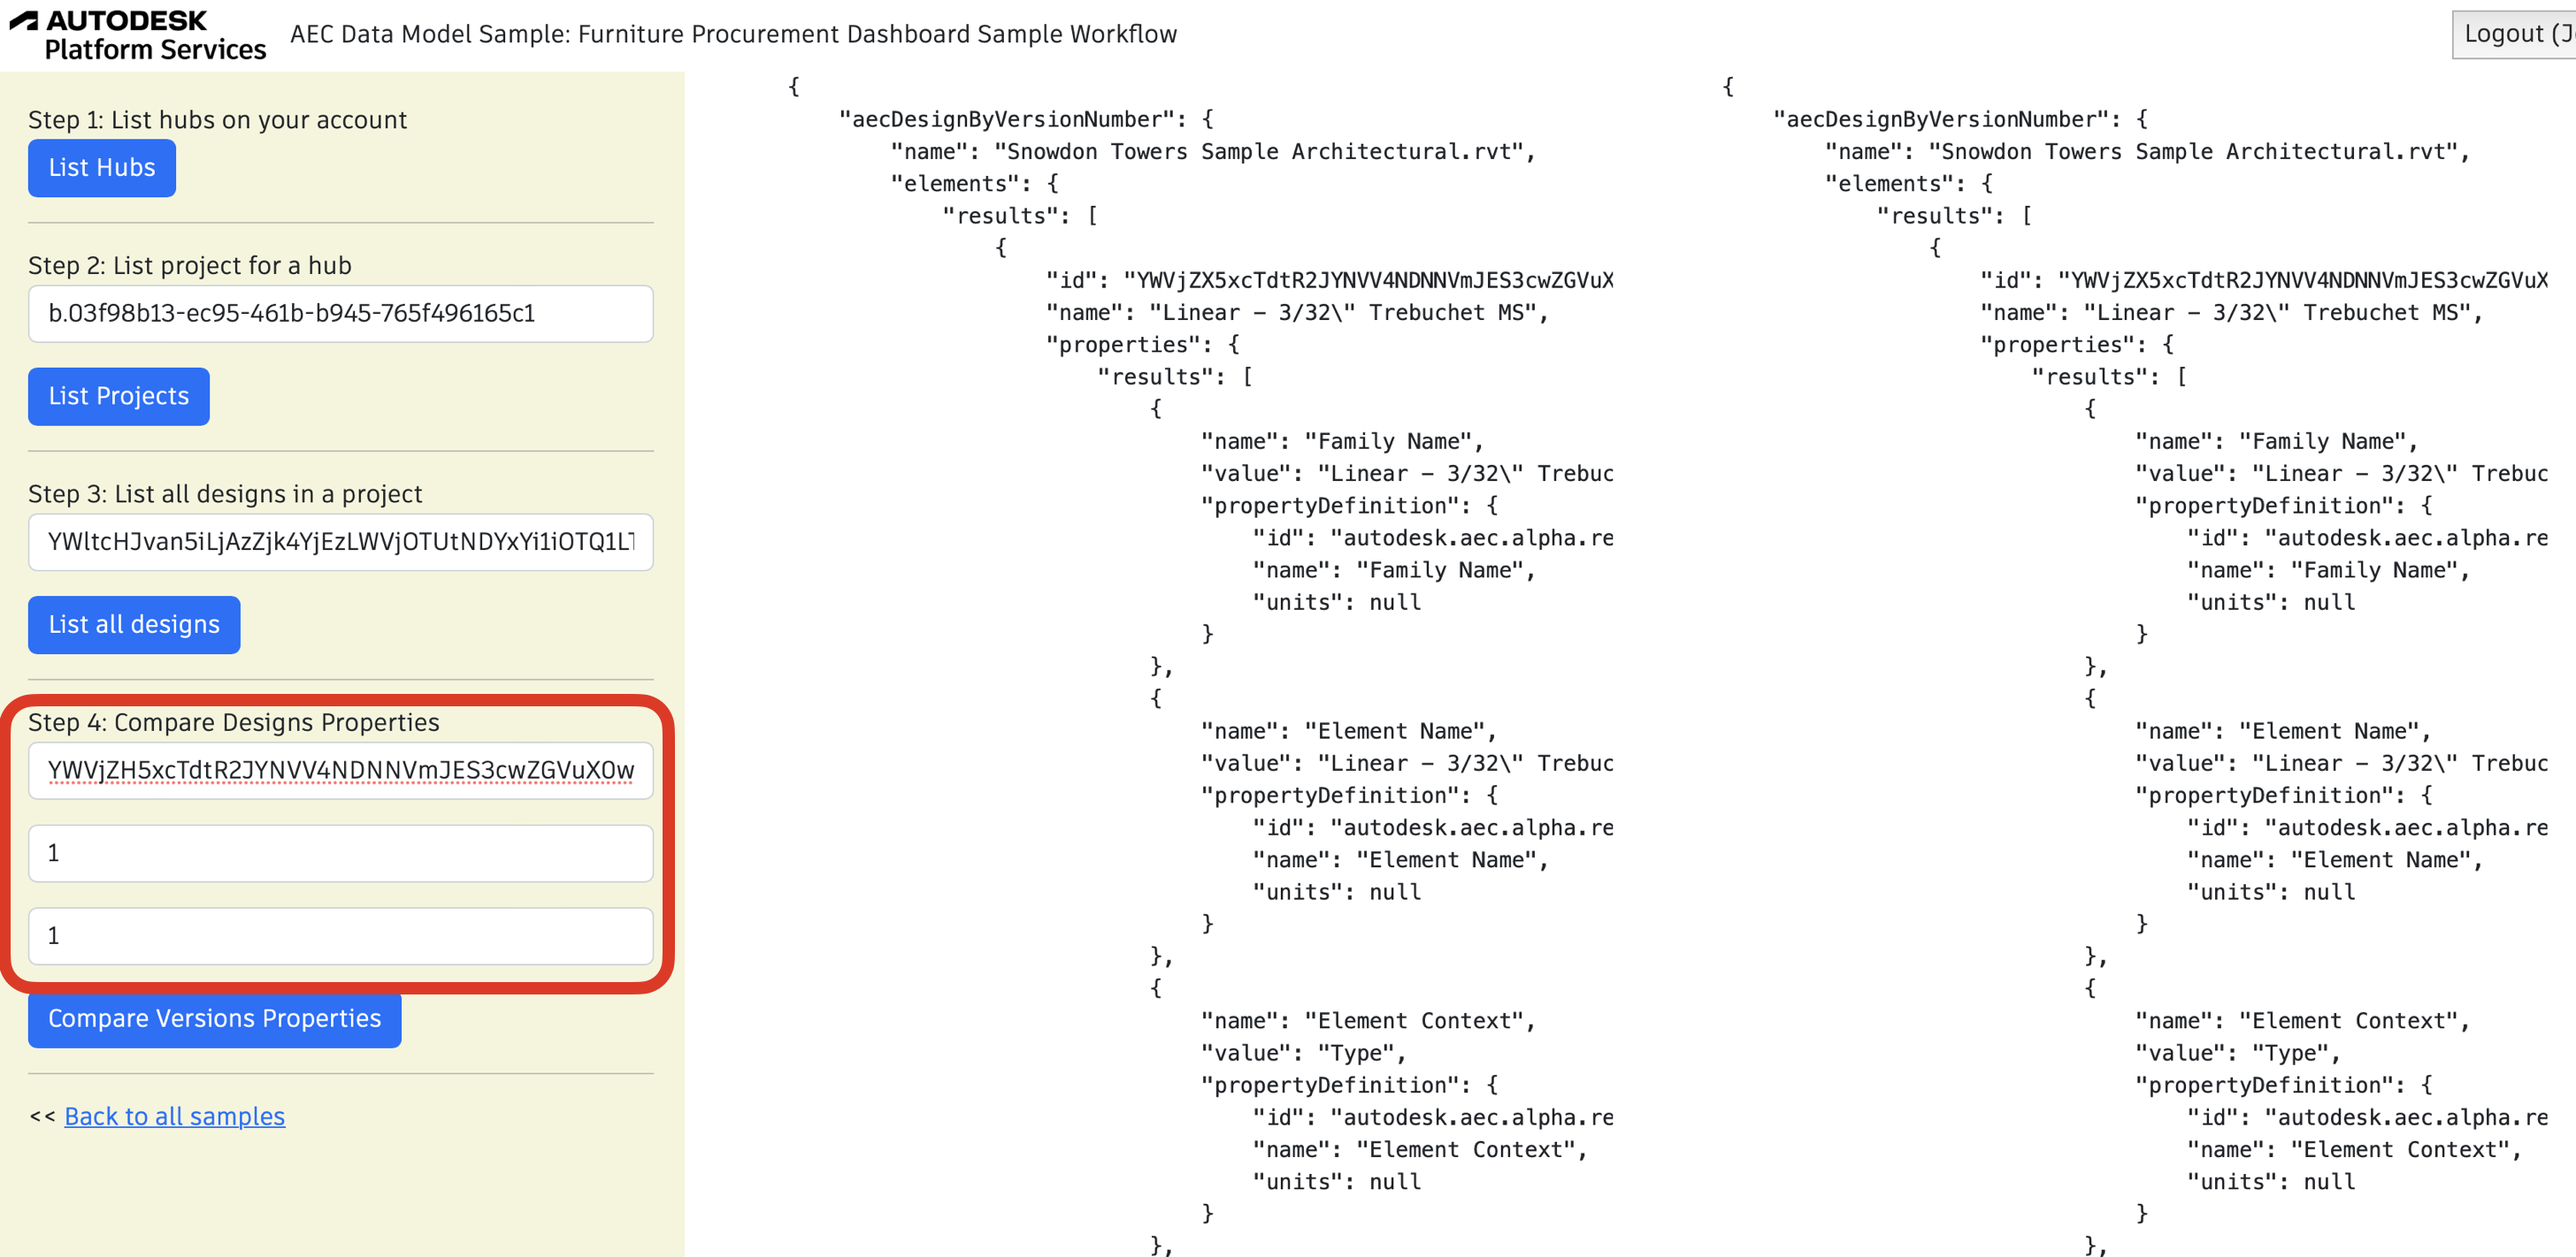
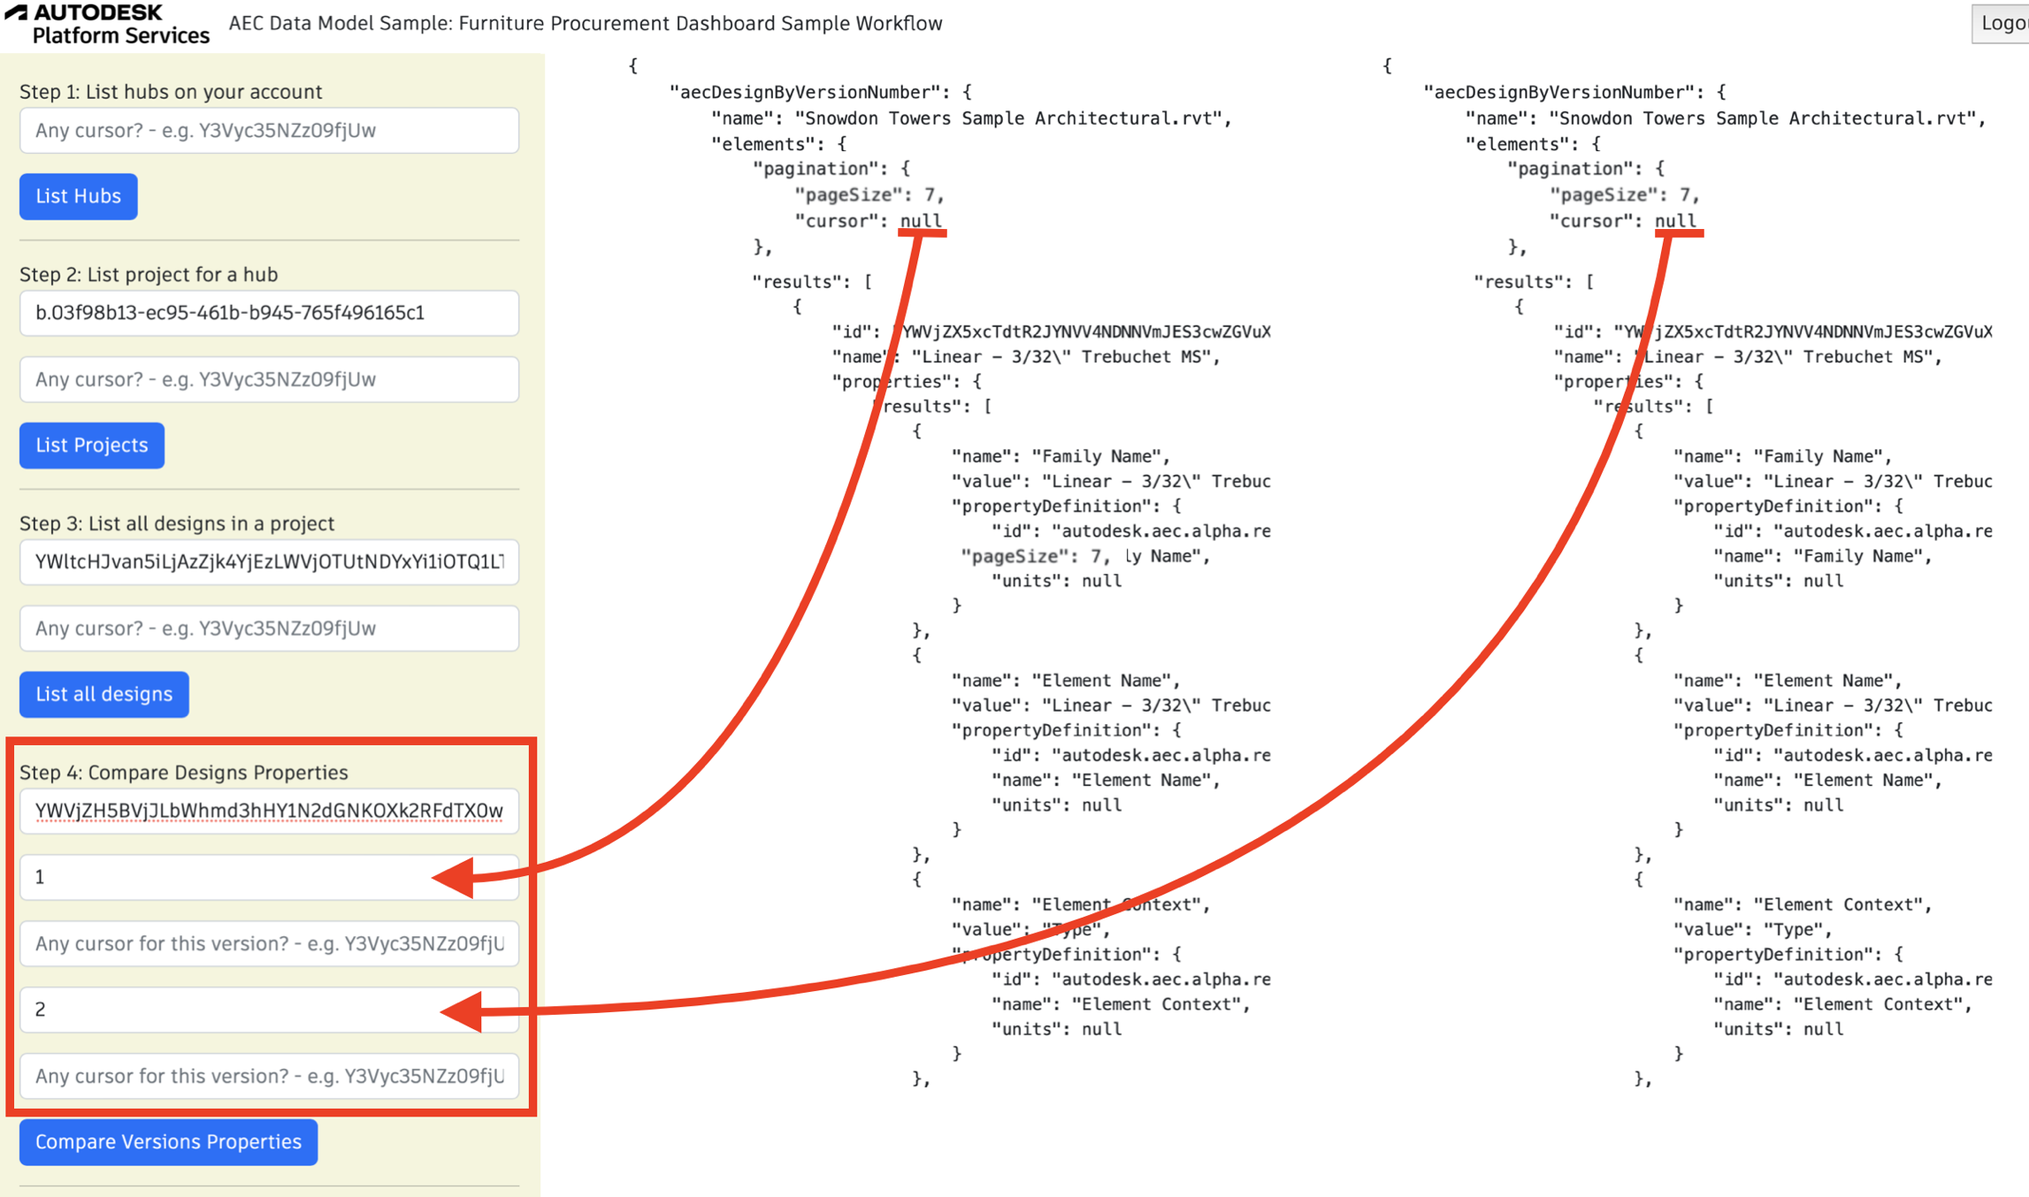
update pagination

diff --git a/Schedule.md b/Schedule.md
@@ -28,41 +28,44 @@ In case your design is not in the first response and you receive a cursor value 
 ## Step 4: Generate Schedule
 
 Use the `designId` from step 3. Click on generate schedule. You may adjust he `filter` field. [See C# code](/Controllers/Schedule.cs).
+In case your element is not in the first response and you receive a cursor value different that `null`, you can copy and paste this value inside the cursor input and click Generate scedule button once more.
 
 ![Step 3](./images/schedule.png)
 
 Query used:
 
 ```
-elements (designId: "your design id",filter: { query: "property.name.category==Windows and 'property.name.Element Context'==Instance"}){
-  pagination{
-    pageSize
-    cursor
-  }
-  results{
-    id
-    name
-    properties{
-      results{
-        name
-        value
-        displayValue
-        propertyDefinition{
-          units
+query GetSchedule($designId: ID!, $elementsfilter: String!){
+  elements (designId: $designId,filter: { query: $elementsfilter}){
+    pagination{
+      pageSize
+      cursor
+    }
+    results{
+      id
+      name
+      properties{
+        results{
+          name
+          value
+          displayValue
+          propertyDefinition{
+            units
+          }
         }
       }
-    }
-    references{
-      results{
-        name
-        value{
-          properties{
-            results{
-              name
-              value
-              displayValue
-              propertyDefinition{
-                units
+      references{
+        results{
+          name
+          value{
+            properties{
+              results{
+                name
+                value
+                displayValue
+                propertyDefinition{
+                  units
+                }
               }
             }
           }
@@ -70,5 +73,58 @@ elements (designId: "your design id",filter: { query: "property.name.category==W
       }
     }
   }
+}
+```
+
+Query used in case a valid cursor is provided:
+
+```
+query GetSchedule($designId: ID!, $elementsfilter: String!){
+  elements (designId: $designId,filter: { query: $elementsfilter}, pagination:{cursor:"cursor"}){
+    pagination{
+      pageSize
+      cursor
+    }
+    results{
+      id
+      name
+      properties{
+        results{
+          name
+          value
+          displayValue
+          propertyDefinition{
+            units
+          }
+        }
+      }
+      references{
+        results{
+          name
+          value{
+            properties{
+              results{
+                name
+                value
+                displayValue
+                propertyDefinition{
+                  units
+                }
+              }
+            }
+          }
+        }
+      }
+    }
+  }
+}
+```
+
+The variables are the same in both cases:
+
+```
+{
+  designId = designId,
+  elementsfilter = elementsfilter
 }
 ```

diff --git a/ProcurementDashboard.md b/ProcurementDashboard.md
@@ -28,37 +28,84 @@ In case your design is not in the first response and you receive a cursor value 
 ## Step 4: Generate furniture procurement data in a specific level
 
 Use the `designId` from step 3. Click on generate schedule. You may adjust he `filter` field. [See C# code](/Controllers/Schedule.cs).
+In case your element is not in the first response and you receive a cursor value different that `null`, you can copy and paste this value inside the cursor input and click Generate Procurement button once more.
 
 ![Step 3](./images/furnitureprocurement.png)
 
 Query used:
 
 ```
-elements(designId: "your design id", filter: { query: "property.name.category=contains='Level' and 'property.name.Element Name'=contains='L5'"}) {
-	pagination {
-		pageSize
-		cursor
-	}
-	results {
-		id
-		name
-		properties {
-			results {
-				name
-				value
-			}
+query GetFurnitureProcurement($designId: ID!, $elementsfilter: String!, $referencefilter: String!) {
+	elements(designId: $designId, filter: { query: $elementsfilter}) {
+		pagination {
+			pageSize
+			cursor
 		}
-		referencedBy (name: ""Level"", filter: { query: "property.name.category==Furniture"}) {
-			results {
-				name
-				properties {
-					results {
-						name
-						value
+		results {
+			id
+			name
+			properties {
+				results {
+					name
+					value
+				}
+			}
+			referencedBy (name: ""Level"", filter: { query: $referencefilter}) {
+				results {
+					name
+					properties {
+						results {
+							name
+							value
+						}
 					}
 				}
 			}
 		}
 	}
+}
+```
+
+Query used in case a valid cursor is provided:
+
+```
+query GetFurnitureProcurement($designId: ID!, $elementsfilter: String!, $referencefilter: String!) {
+	elements(designId: $designId, filter: { query: $elementsfilter}, pagination:{cursor:"cursor"}) {
+		pagination {
+			pageSize
+			cursor
+		}
+		results {
+			id
+			name
+			properties {
+				results {
+					name
+					value
+				}
+			}
+			referencedBy (name: ""Level"", filter: { query: $referencefilter}) {
+				results {
+					name
+					properties {
+						results {
+							name
+							value
+						}
+					}
+				}
+			}
+		}
+	}
+}
+```
+
+The variables are the same in both cases:
+
+```
+{
+	designId = designId,
+	elementsfilter = elementsfilter,
+	referencefilter = referencefilter
 }
 ```

diff --git a/CompareVersions.md b/CompareVersions.md
@@ -28,16 +28,21 @@ In case your design is not in the first response and you receive a cursor value 
 ## Step 4: Generate versions elements
 
 Use the `designId` from step 3. Click on generate schedule. You may adjust he `version` field. [See C# code](/Controllers/Schedule.cs).
+In case your element is not in the first response and you receive a cursor value different that `null`, you can copy and paste this value inside the cursor input and click Compare Versions Properties button once more.
 
 ![Step 3](./images/comparedesigns.png)
 
 Query used:
 
 ```
-{
-  aecDesignByVersionNumber(designId:"your design id" , versionNumber:versionNumber ){
+query getVersionProperties($designId: ID!, $versionNumber: Int!){
+	aecDesignByVersionNumber(designId:$designId , versionNumber:$versionNumber ){
 		name
 		elements{
+			pagination{
+				pageSize
+				cursor
+			}
 			results{
 				id
 				name
@@ -55,4 +60,46 @@ Query used:
 			}
 		}
 	}
+}
+```
+
+Query used in case a valid cursor is provided:
+
+```
+query getVersionProperties($designId: ID!, $versionNumber: Int!){
+	aecDesignByVersionNumber(designId:$designId , versionNumber:$versionNumber , pagination:{cursor:"cursor"}){
+		name
+		elements{
+			pagination{
+				pageSize
+				cursor
+			}
+			results{
+				id
+				name
+				properties{
+					results{
+						name
+						value
+						propertyDefinition{
+							id
+							name
+							units
+						}
+					}
+				}
+			}
+		}
+	}
+}
+```
+
+The variables are the same in both cases:
+
+```
+{
+	designId = designId,
+	elementsfilter = elementsfilter,
+	referencefilter = referencefilter
+}
 ```

diff --git a/QuantityTakeOff.md b/QuantityTakeOff.md
@@ -28,20 +28,49 @@ In case your design is not in the first response and you receive a cursor value 
 ## Step 4: Generate quantity takeoff
 
 Use the `designId` from step 3. Click on generate quantity takeoff. You may adjust he `Category` field. [See C# code](/Controllers/QuantityTakeOff.cs).
+In case your element is not in the first response and you receive a cursor value different that `null`, you can copy and paste this value inside the cursor input and click Generate quantity takeoff button once more.
 
 ![Step 3](./images/quantity.png)
 
 GraphQL query used:
 
 ```
-elements (designId: "your design id", filter: { query: "property.name.category==Doors and 'property.name.Element Context'==Instance"}) {
-  pagination{
+query getQuantityTakeoff ($designId: ID!, $elementsfilter: String!){
+  elements (designId: $designId, filter: { query: $elementsfilter}) {
+    pagination{
       pageSize
       cursor
+    }
+    results{
+      id
+      name
+    }
   }
-  results{
-    id
-    name
+}
+```
+
+Query used in case a valid cursor is provided:
+
+```
+query getQuantityTakeoff ($designId: ID!, $elementsfilter: String!){
+  elements (designId: $designId, filter: { query: $elementsfilter}, pagination:{cursor:"cursor"}) {
+    pagination{
+      pageSize
+      cursor
+    }
+    results{
+      id
+      name
+    }
   }
+}
+```
+
+The variables are the same in both cases:
+
+```
+{
+  designId = designId,
+  elementsfilter = elementsfilter
 }
 ```
